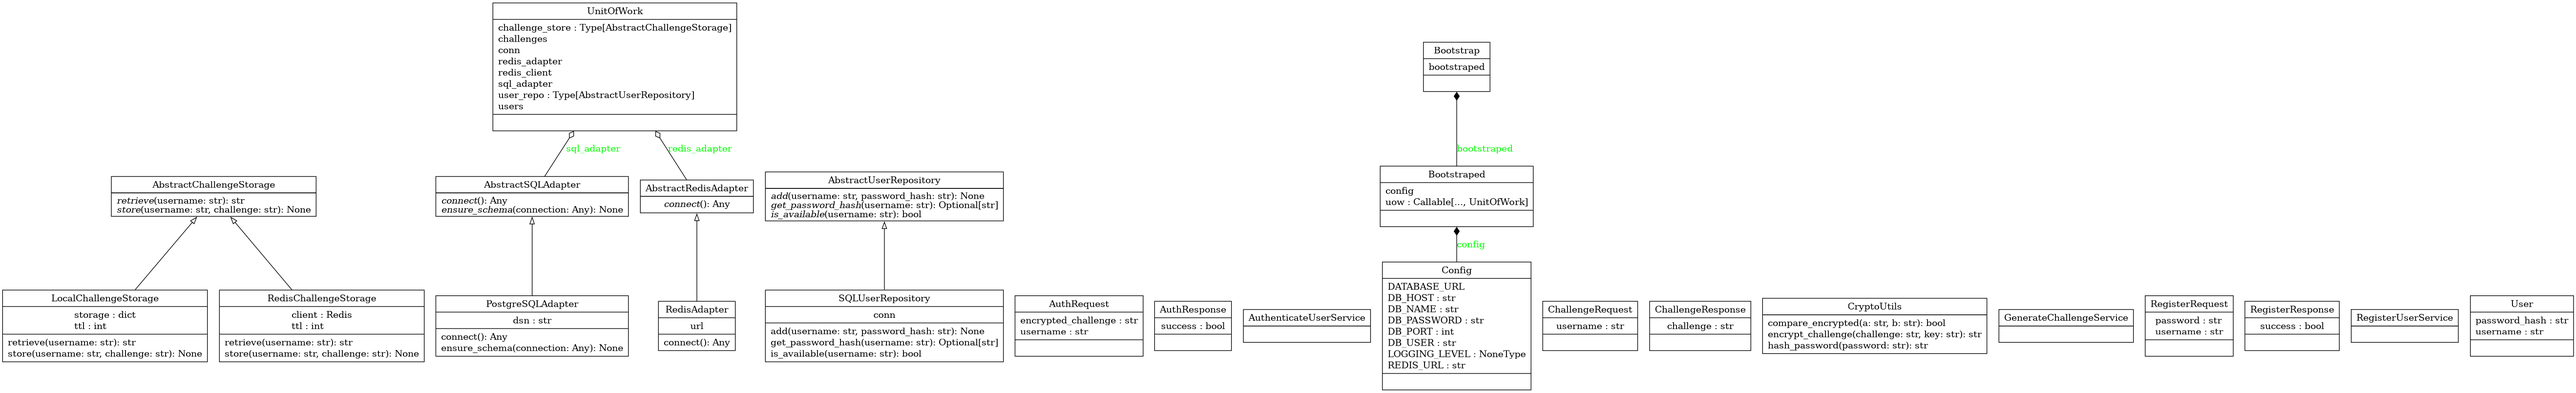
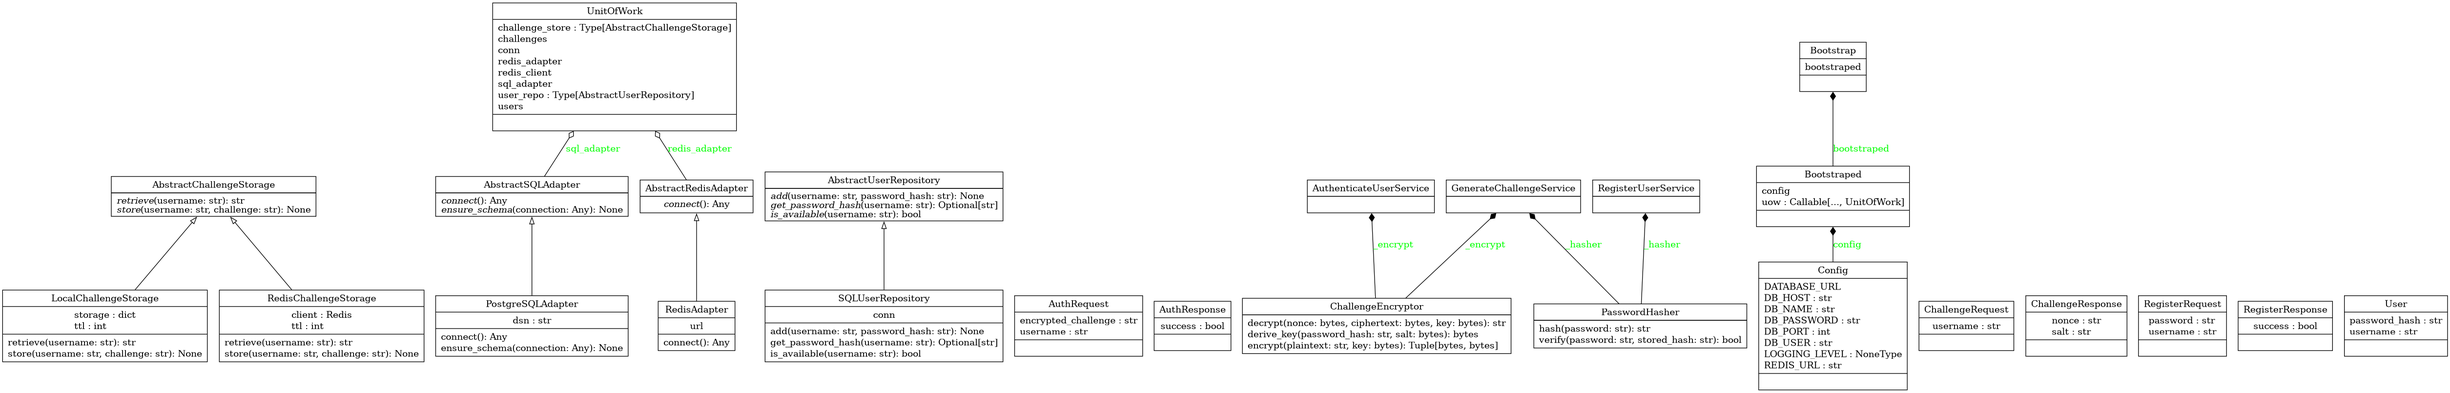
Clear controllers

diff --git a/login_server/api/controllers.py b/login_server/api/controllers.py
@@ -2,15 +2,9 @@ from fastapi import APIRouter, Depends, HTTPException, status
 from login_server.api.schemas import (
     RegisterRequest,
     RegisterResponse,
-    ChallengeRequest,
-    ChallengeResponse,
-    AuthRequest,
-    AuthResponse,
 )
 from login_server.services.user_service import (
     RegisterUserService,
-    GenerateChallengeService,
-    AuthenticateUserService,
 )
 
 router = APIRouter(tags=["auth"])
@@ -25,18 +19,3 @@ def register(req: RegisterRequest, service=Depends(RegisterUserService)):
     if not service(req.username, req.password):
         raise HTTPException(400, "Username already taken")
     return RegisterResponse(success=True)
-
-
-@router.post("/auth/challenge", response_model=ChallengeResponse)
-def issue_challenge(req: ChallengeRequest, service=Depends(GenerateChallengeService)):
-    result = service(req.username)
-    if result is None:
-        raise HTTPException(404, "User not found")
-    return ChallengeResponse(**result)
-
-
-@router.post("/auth/login", response_model=AuthResponse)
-def login(req: AuthRequest, service=Depends(AuthenticateUserService)):
-    if not service(req.username, req.encrypted_challenge):
-        raise HTTPException(401, "Invalid or expired challenge response")
-    return AuthResponse(success=True)

diff --git a/README.md b/README.md
@@ -1,101 +1,124 @@
-# Task: Implement Secure Login Challenge-Response System
+# TinyMMO Login Server
 
-## Summary
+>Secure login and registration service for the TinyMMO game using a challenge-response protocol.
+> Built with **FastAPI**, **PostgreSQL** and **Redis**.
 
-Implement the first step of secure login and user registration for the `login_server` service. This ensures that users are authenticated and registered without ever sending their password over the network. It uses a challenge-response method with encryption to validate identity and store secure credentials.
+---
 
-This task also includes writing clean unit tests using Python and `pytest` to validate behavior.
+## Overview
 
-## Goals
+This service handles secure user registration and authentication without transmitting plaintext passwords.
+It uses a **challenge-response login system** that ensures credentials are never exposed over the network.
 
-* Create a module that handles login challenge.
-* Create a module that handles registration.
-* Add utilities to encrypt and compare authentication responses securely.
-* Write test cases using `pytest`.
-* Provide clear documentation and readable flow for future contributors. (Docstrings using [reST](https://sphinx-rtd-tutorial.readthedocs.io/en/latest/docstrings.html) format)
+Key Features:
 
-## How It Works
+* Secure challenge-response authentication using Argon2, HKDF, and ChaCha20-Poly1305
+* REST and WebSocket login endpoints
+* PostgreSQL-backed user repository
+<!-- * Full test suite with `pytest` will be in future-->
 
-### Registration Flow
+---
 
-1. Client chooses a username and password.
-2. Client sends the username and plaintext password to the server.
-3. Server validates the username is available.
-4. Server hashes the password and stores it securely with the username.
+## Installation
 
-### Login Flow
+### Requirements
 
-1. Client connects to the server with only the username.
-2. Server responds with a random challenge (nonce) and its public key.
-3. Client generates its own random challenge.
-4. Client encrypts the server's challenge using the password hash.
-5. Client sends:
-   * Encrypted server challenge
-   * Client's own challenge
-   * Username
-6. Server retrieves the user's stored password hash.
-7. Server encrypts its original challenge using that hash and compares the result.
-8. If it matches, the server responds with an encrypted version of the client's challenge.
-9. If the client can decrypt it correctly, mutual authentication is complete.
+* Docker
+* Make (optionally)
 
-## Diagrams
+### Clone the Repo
 
-### Registration Flow
-
-```mermaid
-sequenceDiagram
-    participant Client
-    participant Server
-
-    Client->>Server: Sends username + plaintext password
-    Server->>Server: Check if username is available
-    alt Available
-        Server->>Server: Hash password
-        Server->>Server: Store username + password hash
-        Server-->>Client: Registration success
-    else Taken
-        Server-->>Client: Registration failed (username taken)
-    end
+```bash
+git clone https://github.com/Perchinka/TinyMMO_login_server.git
+cd TinyMMO_login_server
 ```
 
-### Login Flow
+### Local Installation (with Poetry)
 
-```mermaid
-sequenceDiagram
-    participant Client
-    participant Server
-
-    Client->>Server: Sends username
-    Server->>Client: Sends server challenge
-    Client->>Client: Generates client challenge
-    Client->>Client: Encrypts server challenge using password hash
-    Client->>Server: Sends encrypted server challenge, client challenge
-    Server->>Server: Retrieves stored password hash
-    Server->>Server: Encrypts challenge using stored hash
-    Server->>Server: Compare with received encrypted challenge
-    alt Match
-        Server->>Client: Encrypts and sends client challenge back
-    else Mismatch
-        Server-->>Client: Authentication failed
-    end
-    Client->>Client: Decrypts challenge
-    alt Match
-        Client-->>Server: Authentication success
-    else Mismatch
-        Client-->>Server: Authentication failed
-    end
+```bash
+poetry install
+cp .env-example .env
 ```
 
-## Tests
+### Docker Setup (Recommended)
 
-Use `pytest`. Ensure the following:
+```bash
+make run  # or manually:
+docker-compose up --build
+```
 
-* Each module is tested in isolation.
-* Add positive and negative cases (correct and incorrect logins/registrations).
-* Mock randomness where needed for predictable tests.
+---
 
-## Notes
+## 📂 Project Structure
 
-* Do not use plain-text passwords anywhere beyond initial transmission for registration.
-* Use standard libraries where possible.
-* Tests must not rely on live randomness — mock or patch for determinism.
+```
+login_server/
+🔹 api/                  # FastAPI routes, schemas, WebSocket handlers
+🔹 common/               # Shared utilities (logging, exceptions)
+🔹 config.py             # App configuration from environment
+🔹 domain/               # Core interfaces and domain models
+🔹 infra/                # Implementations for abstract adapters and repositories
+🔹 services/             # Business logic for registration and login
+🔹 bootstrap.py          # App wiring
+🔹 app.py                # FastAPI app factory
+```
+
+Test coverage lives in the `tests/` directory, with mirroring submodules.
+
+Documentation and architecture references are in `docs/`.
+
+---
+
+## Running Tests
+
+```bash
+make test
+```
+
+To ensure deterministic results, randomness is mocked in all tests.
+
+---
+
+## 🛠 Usage
+
+* **Register:**
+  `POST /register` with `{ "username": "user", "password": "plain" }`
+
+* **WebSocket Login:**
+  Connect to `ws://host/auth/login`
+  Exchange challenge and response following the protocol (see diagrams in `docs/api.md`)
+
+---
+
+## 🤝 Contributing
+
+Contributions, bug reports, and ideas are welcome!
+
+### Guidelines
+
+* Use [conventional commits](https://www.conventionalcommits.org/)
+* Write unit tests for new features
+* Follow [reST docstring style](https://sphinx-rtd-tutorial.readthedocs.io/en/latest/docstrings.html)
+* Format code with `black` and `isort` (optionally)
+
+### Run tests:
+
+```bash
+poetry run pytest
+```
+
+---
+
+## 📄 License
+
+MIT License
+© 2025 [Your Name](mailto:you@example.com)
+
+---
+
+## 🙌 Acknowledgements
+
+* [FastAPI](https://fastapi.tiangolo.com/)
+* [Argon2-cffi](https://github.com/hynek/argon2-cffi)
+* [cryptography](https://cryptography.io/)
+* [pytest](https://pytest.org/)
